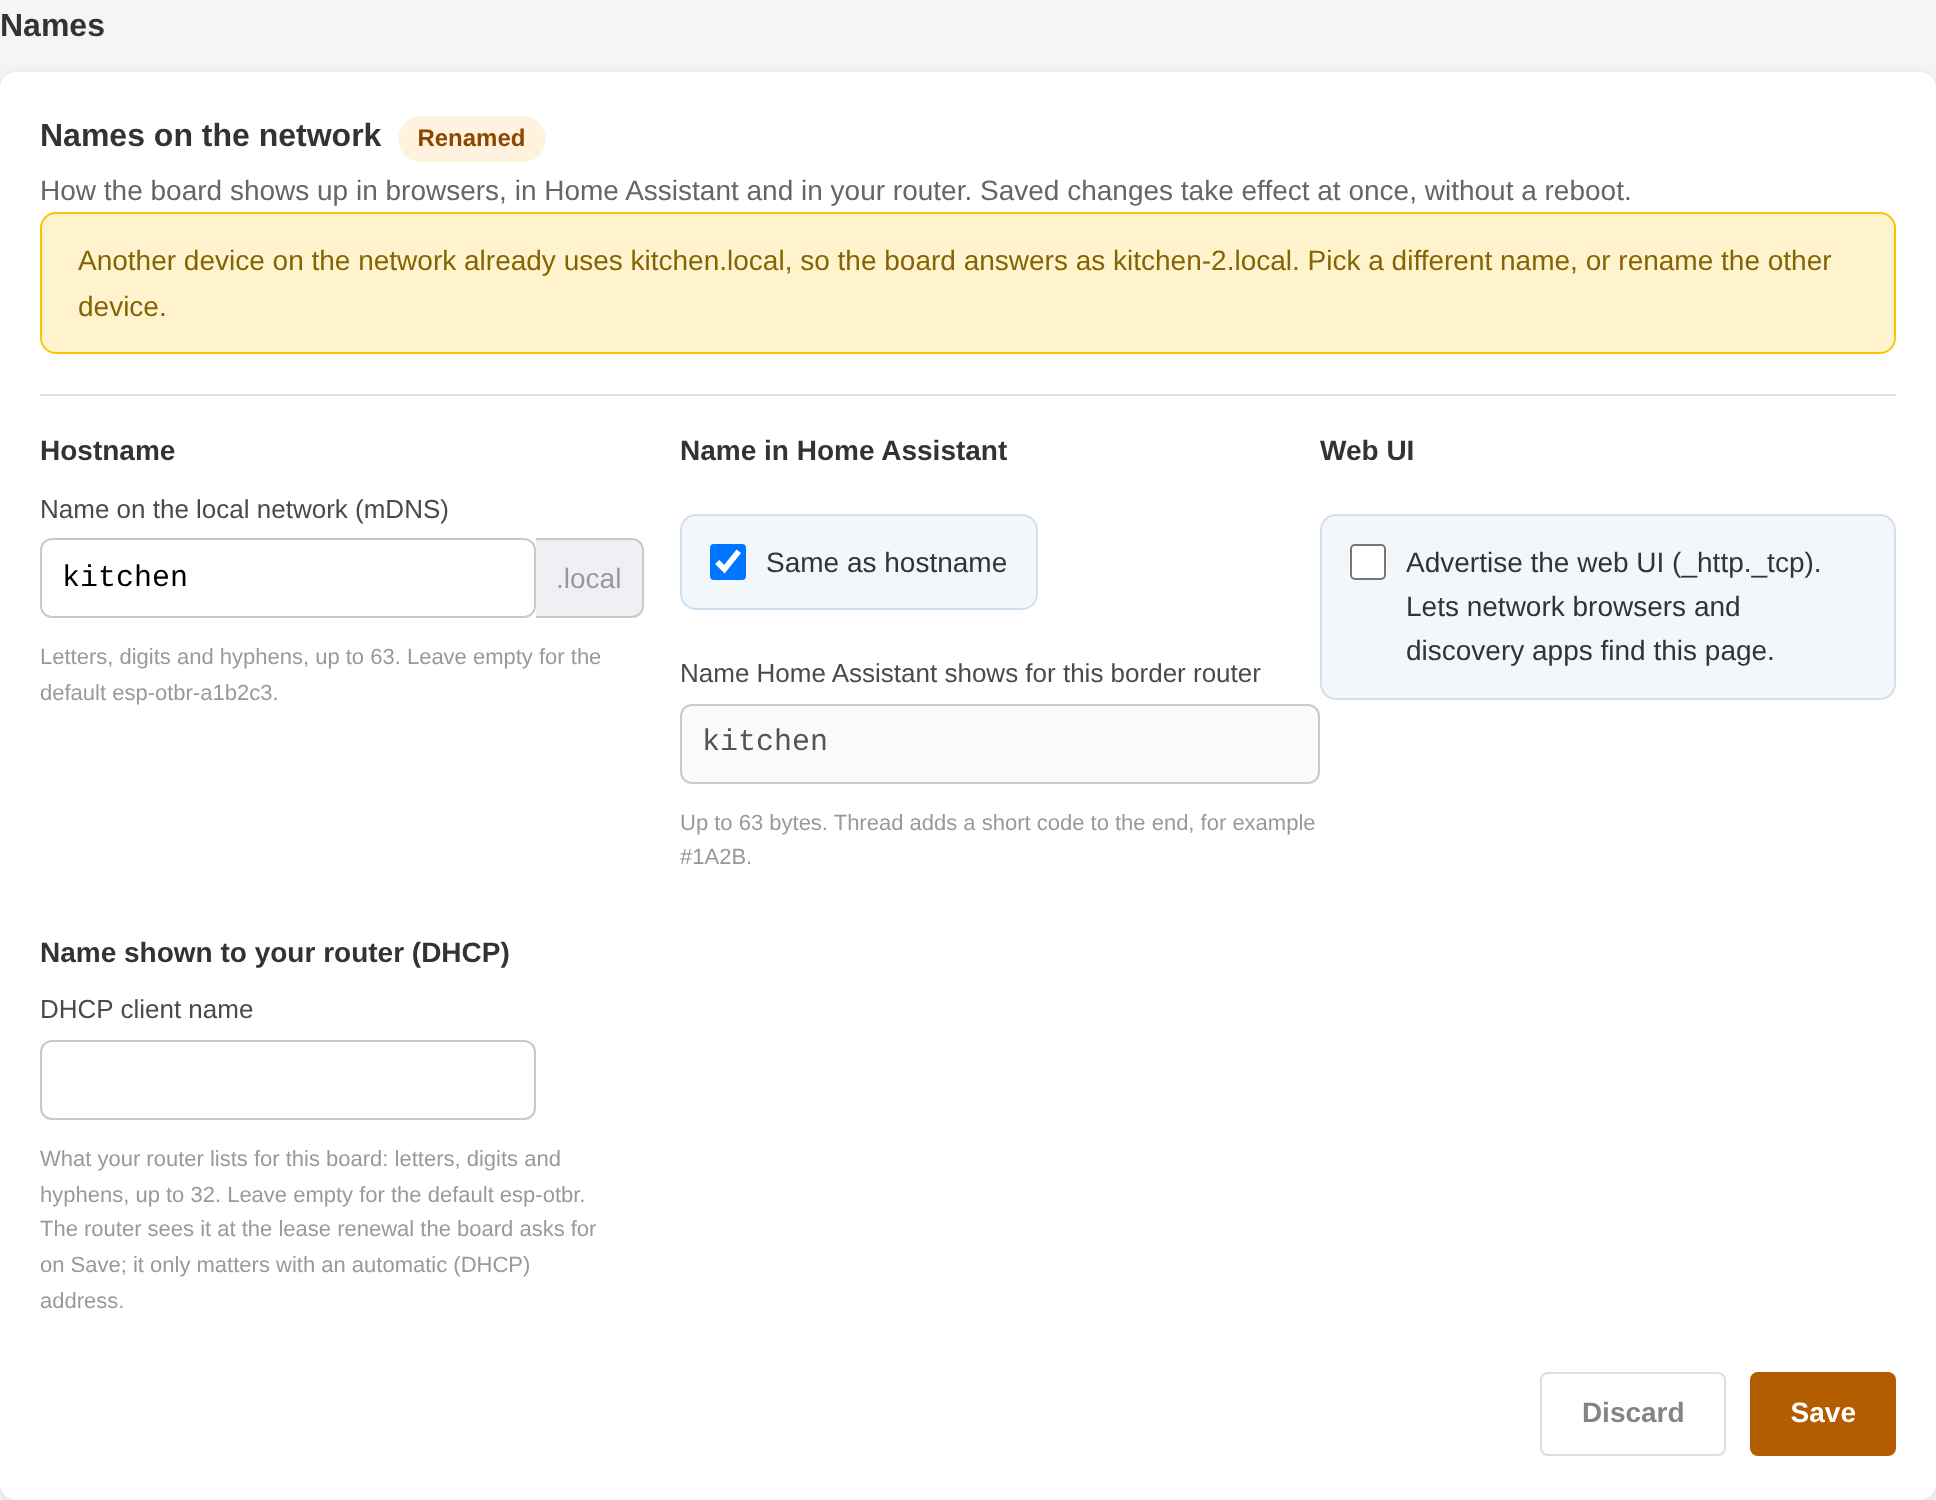
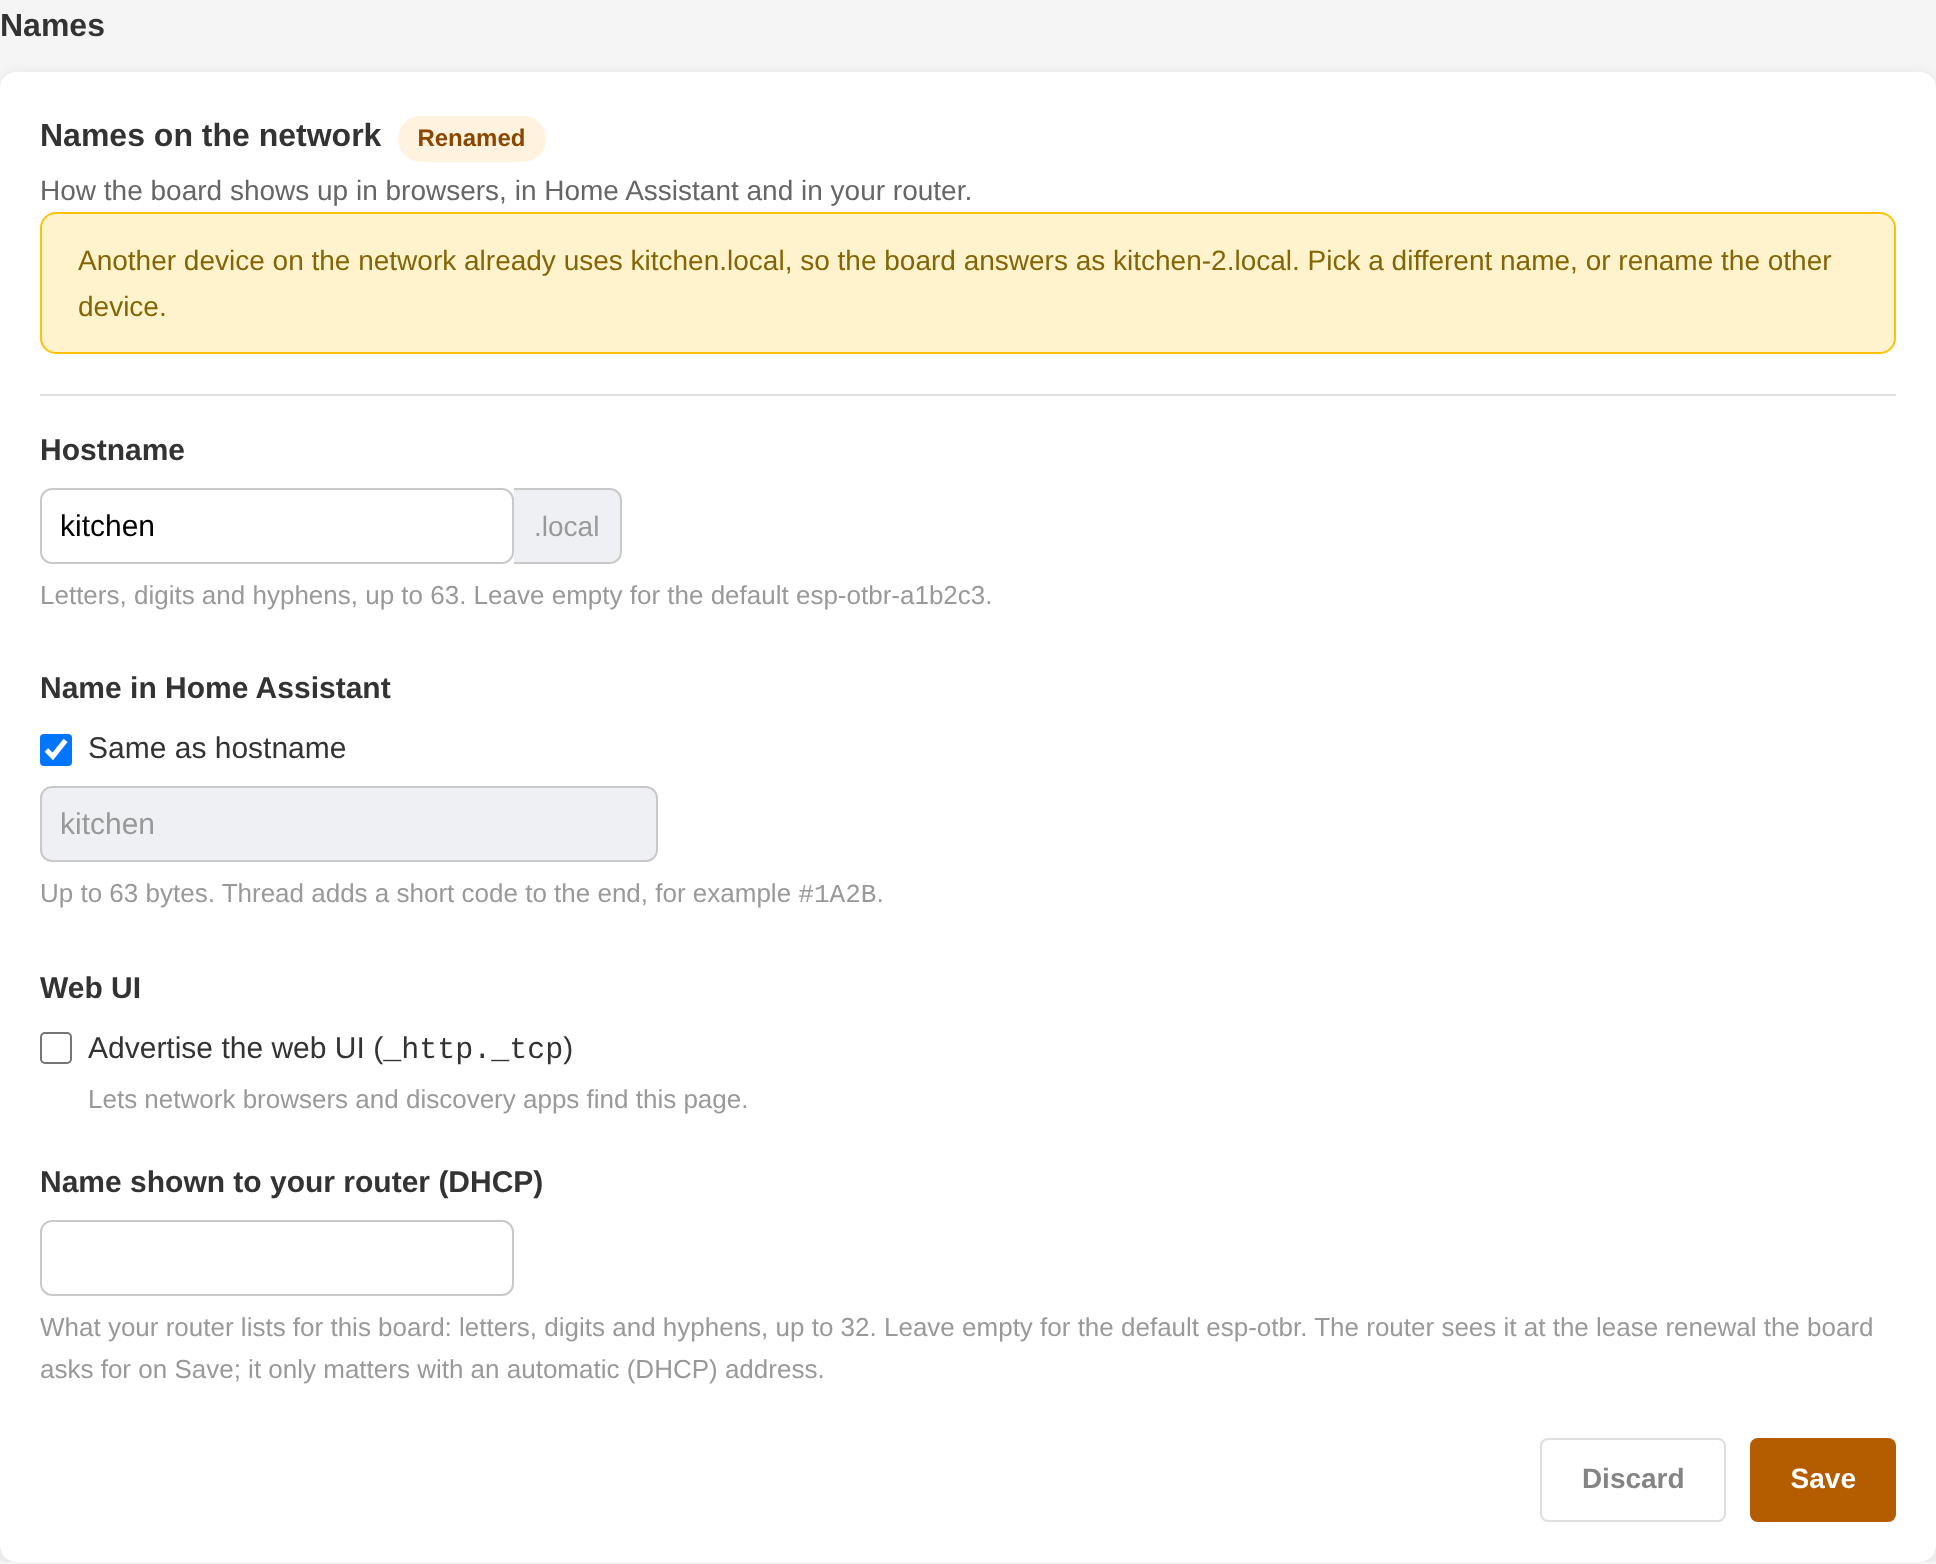
fix(web): names section laid out as the approved mockup
One stacked column with plain checkboxes and an Announced chip, instead of the Ethernet editor's
multi-column grid and boxed checkboxes. Screenshots retaken.

diff --git a/p4/components/esp_ot_br_server/frontend/ethernet.html b/p4/components/esp_ot_br_server/frontend/ethernet.html
@@ -277,18 +277,16 @@
         <div class="card">
             <div class="iface-title">
                 <h3>Names on the network</h3>
+                <span class="chip chip-ok hidden" id="nm-announced">Announced</span>
                 <span class="chip chip-warn hidden" id="nm-renamed">Renamed</span>
             </div>
-            <p class="iface-role">How the board shows up in browsers, in Home Assistant and in your router. Saved changes
-                take effect at once, without a reboot.</p>
+            <p class="iface-role">How the board shows up in browsers, in Home Assistant and in your router.</p>
             <div class="disabled-banner hidden" id="nm-conflict" role="status"></div>
-            <div class="editor">
+            <div class="names-form">
                 <fieldset>
                     <legend>Hostname</legend>
-                    <label class="field" for="nm-hostname">Name on the local network (mDNS)
-                        <span class="input-suffix"><input type="text" id="nm-hostname" size="24" autocomplete="off"
-                            spellcheck="false"><span class="suffix">.local</span></span>
-                    </label>
+                    <span class="input-suffix"><input type="text" id="nm-hostname" size="22" autocomplete="off"
+                        spellcheck="false" aria-label="Hostname"><span class="suffix">.local</span></span>
                     <p class="form-hint" id="nm-hostname-hint"></p>
                     <p class="form-hint hidden" id="nm-hostname-split">In split mode this name resolves on the Thread
                         backbone only. Open this page by its management IP address.</p>
@@ -296,41 +294,34 @@
                 </fieldset>
                 <fieldset>
                     <legend>Name in Home Assistant</legend>
-                    <label class="ack" for="nm-follows">
-                        <input type="checkbox" id="nm-follows" checked>
-                        <span>Same as hostname</span>
-                    </label>
-                    <label class="field" for="nm-ha">Name Home Assistant shows for this border router
-                        <input type="text" id="nm-ha" size="32" autocomplete="off">
-                    </label>
+                    <label class="check-row" for="nm-follows"><input type="checkbox" id="nm-follows" checked> Same as
+                        hostname</label>
+                    <input type="text" id="nm-ha" size="30" autocomplete="off" aria-label="Name in Home Assistant">
                     <p class="form-hint">Up to 63 bytes. Thread adds a short code to the end, for example
                         <span class="mono">#1A2B</span>.</p>
                     <div id="nm-ha-err" role="alert"></div>
                 </fieldset>
                 <fieldset>
                     <legend>Web UI</legend>
-                    <label class="ack" for="nm-http">
-                        <input type="checkbox" id="nm-http">
-                        <span>Advertise the web UI (<span class="mono">_http._tcp</span>). Lets network browsers and
-                            discovery apps find this page.</span>
-                    </label>
+                    <label class="check-row check-top" for="nm-http"><input type="checkbox" id="nm-http">
+                        <span>Advertise the web UI (<span class="mono">_http._tcp</span>)<br><span class="form-hint">Lets
+                            network browsers and discovery apps find this page.</span></span></label>
                     <p class="form-hint hidden" id="nm-http-split">Not available in split mode: the web UI is on the
                         management VLAN, and mDNS runs only on the Thread backbone.</p>
                 </fieldset>
                 <fieldset>
                     <legend>Name shown to your router (DHCP)</legend>
-                    <label class="field" for="nm-dhcp">DHCP client name
-                        <input type="text" id="nm-dhcp" size="24" autocomplete="off" spellcheck="false">
-                    </label>
+                    <input type="text" id="nm-dhcp" size="22" autocomplete="off" spellcheck="false"
+                        aria-label="DHCP client name">
                     <p class="form-hint" id="nm-dhcp-hint"></p>
                     <div id="nm-dhcp-err" role="alert"></div>
                 </fieldset>
+                <div class="actions-end">
+                    <button class="btn btn-outline" id="nm-discard" type="button" disabled>Discard</button>
+                    <button class="btn btn-primary" id="nm-save" type="button" disabled>Save</button>
+                </div>
+                <div class="form-hint" id="nm-msg" role="status" aria-live="polite"></div>
             </div>
-            <div class="actions-end mt-16">
-                <button class="btn btn-outline" id="nm-discard" type="button" disabled>Discard</button>
-                <button class="btn btn-primary" id="nm-save" type="button" disabled>Save</button>
-            </div>
-            <div class="form-hint" id="nm-msg" role="status" aria-live="polite"></div>
         </div>
     </section>
 </div>

diff --git a/p4/components/esp_ot_br_server/frontend/static/style.css b/p4/components/esp_ot_br_server/frontend/static/style.css
@@ -532,6 +532,17 @@ tr:hover td { background: var(--primary-light); }
 .steps li { margin-bottom: 4px; }
 .ack { display: flex; gap: 10px; align-items: flex-start; background: #f3f7fb; border: 1px solid #cfe0f0; border-radius: var(--radius); padding: 12px 14px; font-size: 14px; cursor: pointer; margin: 12px 0; }
 .ack input { width: 18px; height: 18px; margin-top: 2px; flex: none; }
+.names-form { border-top: 1px solid var(--border); padding-top: 16px; margin-top: 16px; }
+.names-form fieldset { border: 0; padding: 0; margin: 0 0 18px; display: flex; flex-direction: column; gap: 6px; align-items: flex-start; }
+.names-form legend { font-size: 15px; font-weight: 600; margin-bottom: 6px; padding: 0; }
+.names-form input[type="text"] { min-height: 38px; padding: 7px 9px; border: 1px solid #c9c9c9; border-radius: 6px; font-size: 15px; max-width: 100%; }
+.names-form input[type="text"]:disabled { background: var(--muted-bg); color: var(--text-muted); }
+.names-form .form-hint { font-size: 13px; margin: 0; }
+.names-form .mono { font-family: 'Courier New', Consolas, monospace; }
+.check-row { display: flex; gap: 8px; align-items: center; font-size: 15px; cursor: pointer; }
+.check-row input { width: 16px; height: 16px; margin: 0; flex: none; }
+.check-top { align-items: flex-start; }
+.check-top input { margin-top: 3px; }
 .input-suffix { display: flex; max-width: 100%; }
 .input-suffix input { border-top-right-radius: 0; border-bottom-right-radius: 0; min-width: 0; }
 .input-suffix .suffix { padding: 0 10px; display: flex; align-items: center; border: 1px solid #c9c9c9; border-left: 0; border-radius: 0 6px 6px 0; background: var(--muted-bg); color: var(--text-muted); font-size: 14px; }

diff --git a/p4/components/esp_ot_br_server/frontend/static/names.js b/p4/components/esp_ot_br_server/frontend/static/names.js
@@ -185,6 +185,7 @@ function render() {
                               'Save; it only matters with an automatic (DHCP) address.');
   Object.keys(FIELDS).forEach(function(f) { messages(FIELDS[f] + '-err', v.errors[f] || serverErrors[f]); });
   var renamed = L.conflict(api);
+  show('nm-announced', !renamed);
   show('nm-renamed', renamed);
   setText('nm-conflict', renamed ? 'Another device on the network already uses ' + L.effectiveHostname(api) +
                                        '.local, so the board answers as ' + api.hostname_live +

diff --git a/tools/tests/test_names_page.py b/tools/tests/test_names_page.py
@@ -318,14 +318,24 @@ class TestNamesPage:
         )
         assert r == [False, True, True]
 
+    def test_no_conflict_shows_the_announced_chip(self):
+        # On hostname_live = the hostname: the Announced chip, no Renamed chip, no banner.
+        r = scenario(
+            page("names", routes())
+            + START
+            + "return [t.el('nm-announced').hidden(), t.el('nm-renamed').hidden(), t.el('nm-conflict').hidden()];"
+        )
+        assert r == [False, True, True]
+
     def test_conflict_shows_the_chip_and_banner(self):
         # On hostname_live kitchen-2: the Renamed chip and a banner naming both names.
         r = scenario(
             page("names", routes("H.fixture(H.NAMES, {hostname_live: 'kitchen-2'})"))
             + START
-            + "return [t.el('nm-renamed').hidden(), t.el('nm-conflict').hidden(), t.el('nm-conflict').allText()];"
+            + "return [t.el('nm-renamed').hidden(), t.el('nm-conflict').hidden(), t.el('nm-conflict').allText(), t.el('nm-announced').hidden()];"
         )
         assert r[0:2] == [False, False]
+        assert r[3] is True
         assert "kitchen.local" in r[2]
         assert "kitchen-2.local" in r[2]
 
